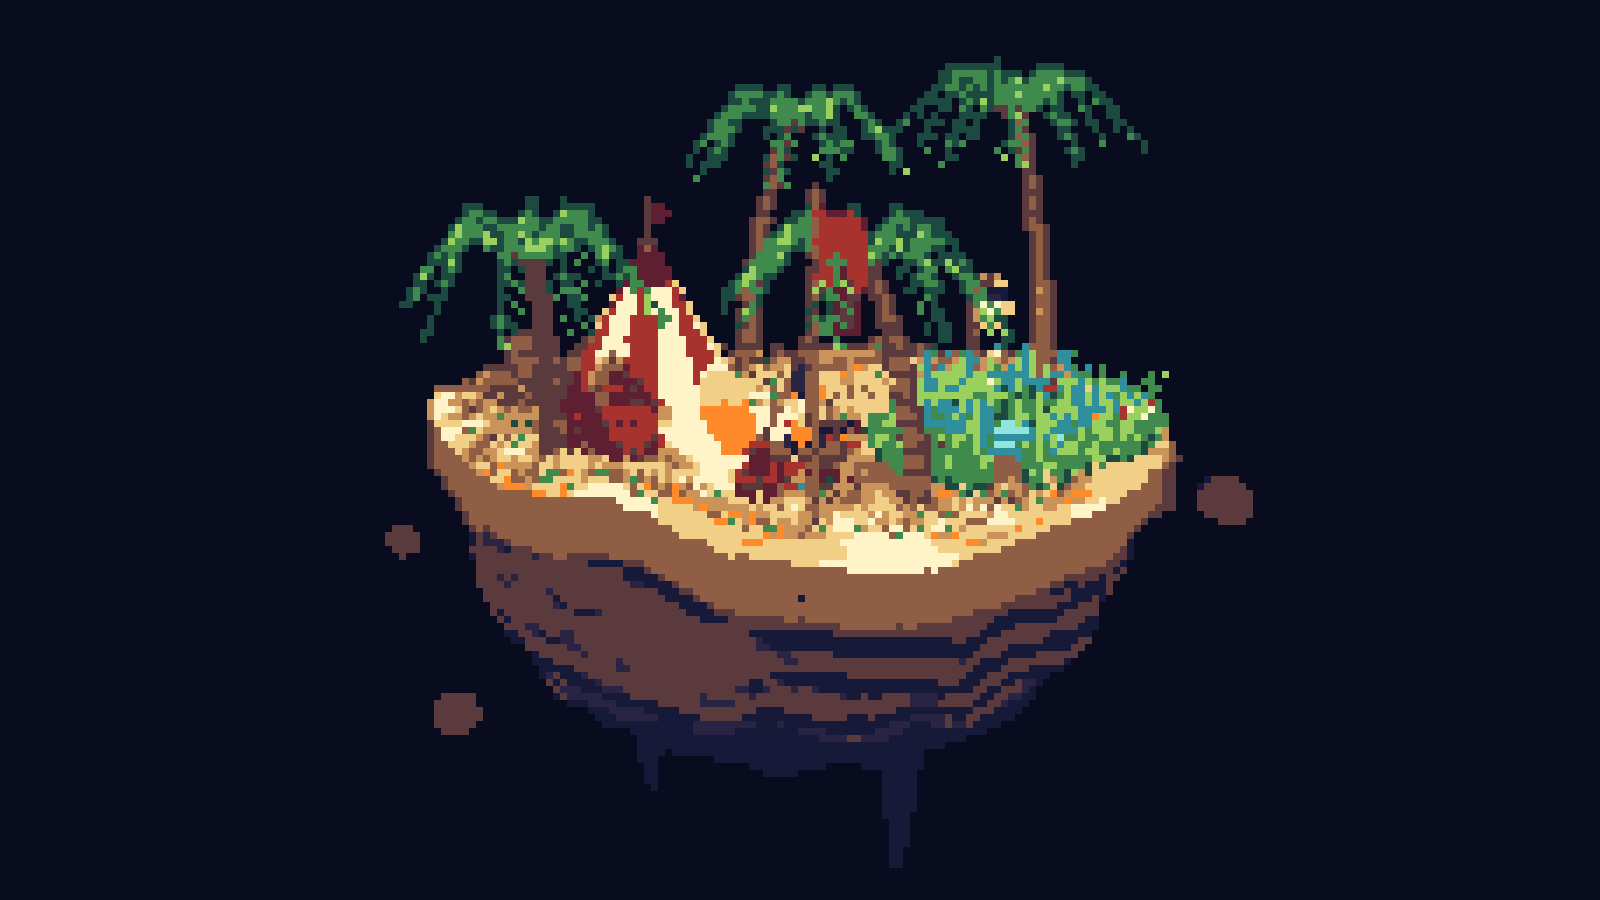
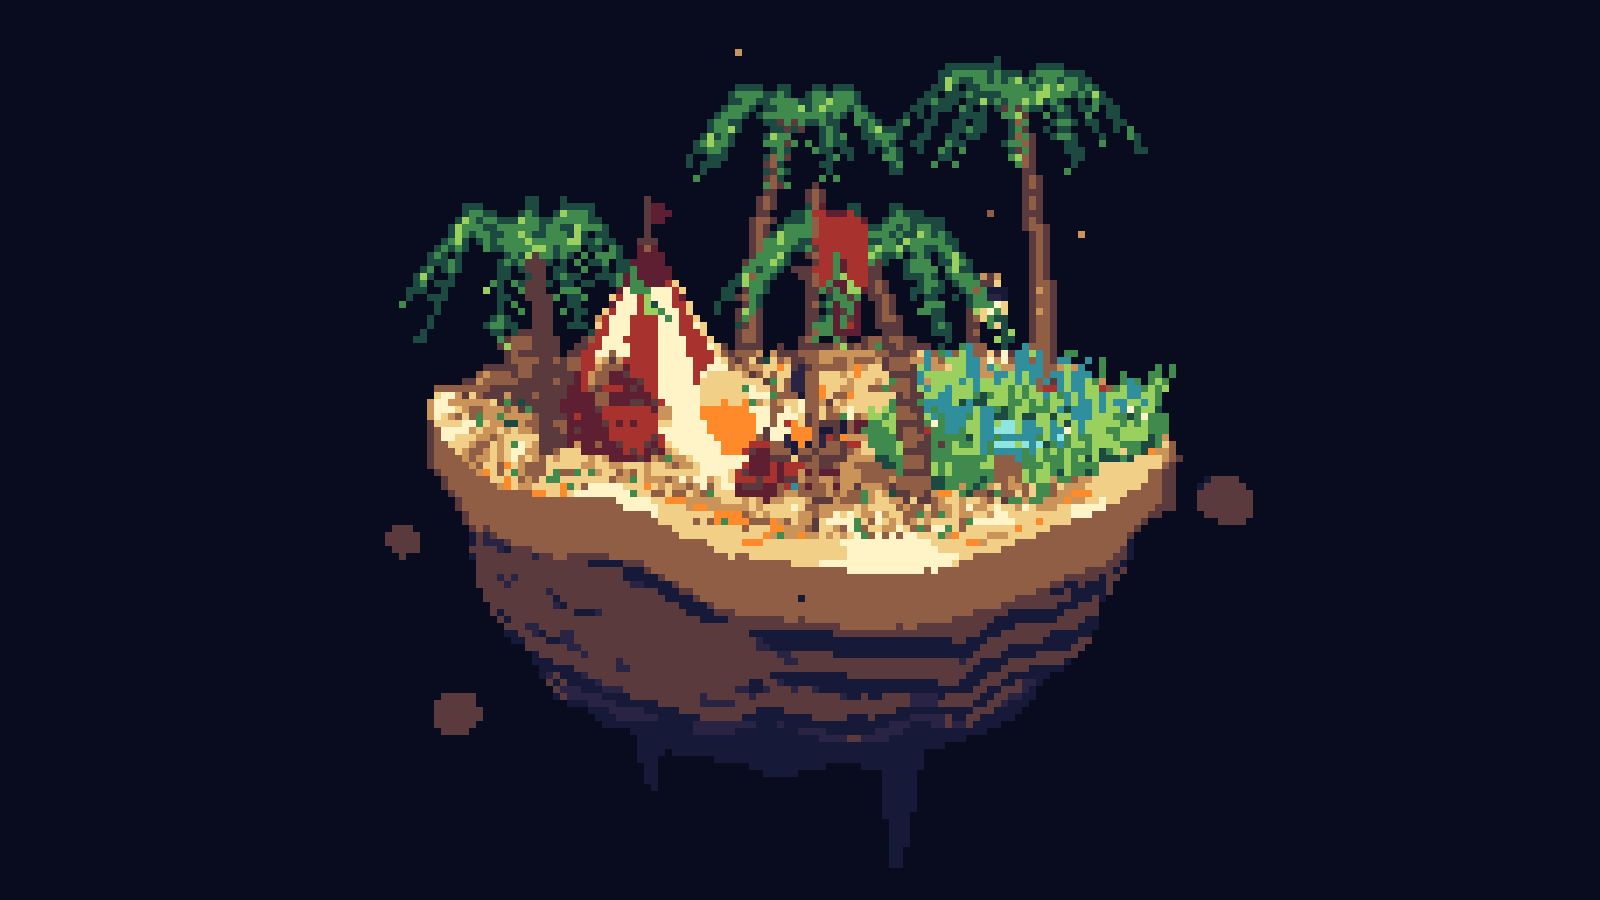
1.3.0: the scene's particles move
Embers, smoke, fireflies and drifting sand were missing: a .dio declares them
under "particles" and the converter only read the surfels and the free splats.

- dio_to_bytes.py expands them the way the browser does — same lcg, same order —
  and tags each splat with a motion id in flags bits 16..23 and one parameter in
  24..31. The scene's own halos get the pulse motion.
- the MultiMesh custom data carries kind, motion and parameter now (it was kind
  only, so the motion never reached the shader)
- the shaders animate them from the splat index and ps_time, vertex-side: no CPU
  work, no extra buffer. Rise, smoke, blink, twinkle, drift, float, fog, shaft,
  ray, pulse.
- time_override poses that clock, for a still or a test

diff --git a/tools/dio_to_bytes.py b/tools/dio_to_bytes.py
@@ -36,6 +36,26 @@ SWAY = 32
 
 KIND_LIT, KIND_EMISSIVE, KIND_SWAY, KIND_GLOW = 0, 1, 2, 3
 
+# what the renderer animates, in flags bits 16..23; the byte above it is one parameter
+MOTION = {"none": 0, "rise": 1, "float": 2, "blink": 3, "twinkle": 4, "drift": 5,
+          "leaf": 6, "smoke": 7, "fog": 8, "shaft": 9, "ray": 10, "pulse": 11}
+
+
+class Rng:
+    """The browser's lcg, so the particles land where they do there."""
+
+    def __init__(self, seed: int = 99):
+        self.seed = seed
+
+    def next(self) -> float:
+        self.seed = (self.seed * 1664525 + 1013904223) & 0xFFFFFFFF
+        return self.seed / 4294967296.0
+
+
+def param_byte(value: float) -> int:
+    """One parameter per particle, packed into the top byte (0..4 over 0..255)."""
+    return max(0, min(255, int(round(value / 4.0 * 255.0))))
+
 
 def read_dio(path):
     with open(path, "rb") as f:
@@ -90,6 +110,73 @@ def record(pos, axis1, axis2, nrm, colour, flags):
     return struct.pack("<15fI", *pos, *axis1, *axis2, *nrm, *colour, flags)
 
 
+def particles(meta) -> bytes:
+    """The moving things a scene declares: embers, smoke, fireflies, drifting sand.
+
+    Written the way tools/build-scene.mjs and src/viewer/world.js do it, PRNG and all, so the same
+    specks land in the same places. They are translucent and unshaded, so they go in the glow half and
+    the renderer animates them per splat from their index.
+    """
+    groups = meta.get("particles") or []
+    if not groups:
+        return b""
+
+    rng = Rng(99)
+    out = bytearray()
+    radius = meta["R"]
+    top = meta.get("top", 1.0)
+    spacing = meta["h"]
+
+    def put(x, y, z, sx, sy, sz, alpha, mode):
+        hexes = ps["colors"]
+        c = hexes[int(rng.next() * len(hexes))]
+        r, g, b = (int(c[i:i + 2], 16) / 255.0 for i in (1, 3, 5))
+        param = radius if mode == "drift" else (ps["spread"][1] if ps.get("spread") else ps.get("height") or 0.6)
+        flags = (GLOW | (max(0, min(255, round(alpha * 255.0))) << 8)
+                 | (MOTION[mode] << 16) | (param_byte(param) << 24))
+        out.extend(record((x, y, z), (sx, 0.0, 0.0), (0.0, sy, 0.0), (0.0, 0.0, sz), (r, g, b), flags))
+
+    for ps in groups:
+        mode = "twinkle" if ps.get("still") else ps.get("mode")
+        if mode not in MOTION or mode == "leaf":
+            continue  # leaf would need a per-splat centre; not carried yet
+        c = ps.get("center") or [0.0, 0.0, 0.0]
+
+        if ps.get("points"):
+            spots = ps["points"]
+        elif ps.get("origins"):
+            spots = [o for o in ps["origins"] for _ in range(ps["n"])]
+        else:
+            spots = []
+            for _ in range(ps["n"]):
+                if ps.get("spread"):
+                    sp = ps["spread"]
+                    spots.append([c[0] + (rng.next() - 0.5) * 2 * sp[0], c[1] + rng.next() * sp[1],
+                                  c[2] + (rng.next() - 0.5) * 2 * sp[2]])
+                else:
+                    a = rng.next() * 6.28
+                    r = math.sqrt(rng.next()) * radius * (0.7 if mode == "shaft" else 1.0)
+                    y = (0.05 + rng.next() * 0.22 if mode == "fog"
+                         else top * 0.55 if mode == "shaft"
+                         else 0.06 + rng.next() * (top + 0.3))
+                    spots.append([math.cos(a) * r, y, math.sin(a) * r])
+
+        for o in spots:
+            alpha = ps.get("alpha", 0.95)
+            if mode == "fog":
+                put(o[0], o[1], o[2], 0.3 + rng.next() * 0.25, 0.035, 0.3 + rng.next() * 0.25, alpha, mode)
+            elif mode == "shaft":
+                put(o[0], o[1], o[2], 0.07 + rng.next() * 0.06, top * 0.75, 0.07 + rng.next() * 0.06,
+                    alpha, mode)
+            else:
+                k = spacing * (0.9 if mode == "smoke" else 0.28 + rng.next() * 0.14)
+                put(o[0], o[1], o[2], k, k, k, alpha, mode)
+                if ps.get("halo"):
+                    put(o[0], o[1], o[2], k * 5.5, k * 5.5, k * 5.5, 0.18, mode)
+
+    return bytes(out)
+
+
 def main():
     if len(sys.argv) < 3:
         raise SystemExit("usage: dio_to_bytes.py <in.dio> <out.bytes>")
@@ -112,6 +199,7 @@ def main():
         flags = baked | (255 << 8)
         solid += record(p, axis1, axis2, nrm, colour, flags)
 
+    # the scene's own halos breathe with their flame, the way the browser's glow meshes do
     for i in range(n_free):
         base = i * 10
         p = free[base:base + 3]
@@ -127,7 +215,7 @@ def main():
 
         if kind == KIND_GLOW:
             # translucent light: keeps its own colour and opacity, the pixel pass blends it in
-            flags = GLOW | (max(0, min(255, round(alpha * 255.0))) << 8)
+            flags = GLOW | (max(0, min(255, round(alpha * 255.0))) << 8) | (MOTION["pulse"] << 16)
             glow += record(p, axis1, axis2, nrm, colour, flags)
             continue
 
@@ -138,6 +226,8 @@ def main():
             # a blade is lit as if it faced up, and leans in the wind
             flags |= SWAY | UP_NORMAL
         solid += record(p, axis1, axis2, nrm, colour, flags)
+
+    glow += particles(meta)
 
     out = solid + glow
     with open(sys.argv[2], "wb") as f:

diff --git a/README.md b/README.md
@@ -12,7 +12,8 @@ the whole cloud is drawn at twice the art resolution with the Gaussian falloff s
 fullscreen pass votes every 2×2 block of samples into one flat palette colour. Real 3D that reads as
 pixel art: crisp silhouettes, ink outlines, a small palette, no soft splat mush.
 
-147 769 surfels, 16 colours, no textures, two draw calls.
+147 889 surfels, 16 colours, no textures, two draw calls — and the embers, smoke, fireflies and
+drifting sand move without a single CPU update.
 
 ## Install
 
@@ -165,6 +166,12 @@ plugin.cfg, plugin.gd              the editor plugin and its tool menu
 demo/                              Caravan camp: the scene, its cloud, its palette, its look
 ```
 
+A `.dio` world also declares its particles. `tools/dio_to_bytes.py` expands them the way the browser
+does — same lcg, same order — and tags each splat with a motion id in flags bits 16..23 plus one
+parameter in 24..31. The shaders animate them from the splat's index and `ps_time`, so the cloud stays
+one MultiMesh and nothing is touched per frame. `SplatCloudNode.time_override` poses that clock for a
+still.
+
 Three Godot things worth knowing if you change the shaders:
 
 - A splat is one instanced quad. The MultiMesh instance transform carries the two wide axes in its
@@ -188,9 +195,8 @@ Three Godot things worth knowing if you change the shaders:
 - WorldEnvironment tonemapping and glow would break the palette exactness — leave them off.
 - The addon folder must be named `pixel_art_splats`: shader includes and the demo's `.res` refer to
   it by absolute `res://` path.
-- Not ported: particles (the camp's embers and smoke), skinned animation, automatic palettes from a
-  model's colours, the original light-shaft data. The fire itself is baked geometry and halo, so it
-  reads fine; what is missing is the movement above it.
+- Not ported: the `leaf` and `beam` motions (they want a per-splat centre), skinned animation,
+  automatic palettes from a model's colours.
 - Converted clouds want `cull_backfaces` off: the browser never culls splats in a world, and a baked
   silhouette has surfaces facing every way.
 

diff --git a/CHANGELOG.md b/CHANGELOG.md
@@ -1,5 +1,18 @@
 # Changelog
 
+## [1.3.0] - 2026-11-23
+
+The moving things: embers, smoke, fireflies, drifting sand.
+
+- `tools/dio_to_bytes.py` expands a world's `particles` as well — the same lcg, called in the same
+  order as the browser, so the specks land where they do there. They carry a motion id in flags bits
+  16..23 and one parameter in 24..31; the scene's own halos get `pulse`.
+- The splat shaders animate them from the splat index and `ps_time`, vertex-side: no CPU work, no
+  extra buffer. Rise, smoke, blink, twinkle, drift, float, fog, shaft, ray, pulse.
+- The MultiMesh custom data now carries kind, motion and parameter (it used to be kind only).
+- `SplatCloudNode.time_override` poses the clock, for a still or a test.
+- `leaf` and `beam` are not carried yet: they need a per-splat centre.
+
 ## [1.2.0] - 2026-11-23
 
 The look as an asset, so several scenes can share it.
